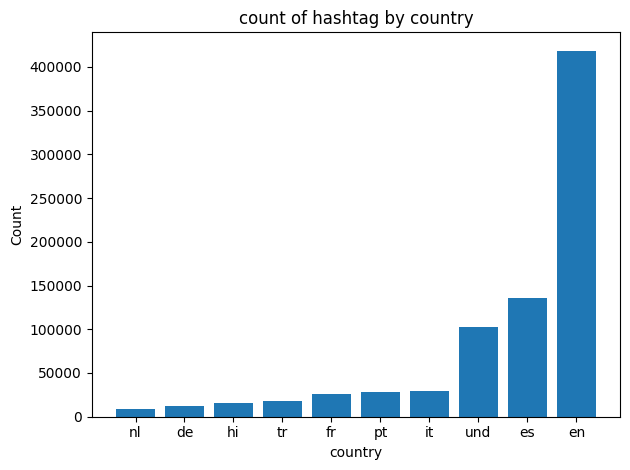
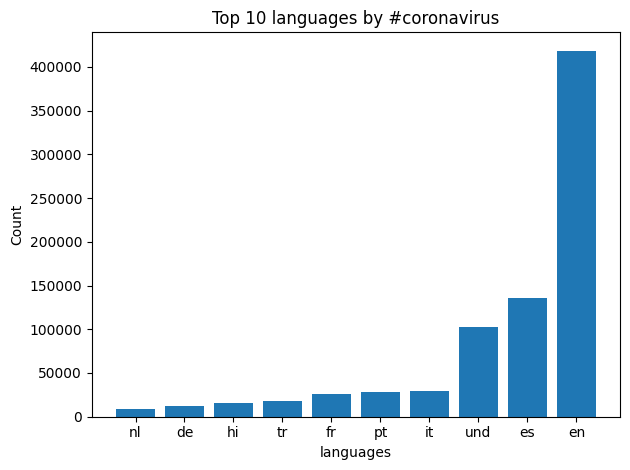
updated lang graphs

Changed region(s): [[0.3317, 0.0, 0.8143, 0.0596], [0.5127, 0.9532, 0.6333, 0.983]]

diff --git a/src/visualize.py b/src/visualize.py
@@ -27,17 +27,21 @@ if args.percent:
 # print the count values
 items = sorted(counts[args.key].items(), key=lambda item: (item[1],item[0]), reverse=True)
 
-for k,v in items:
-    print(k,':',v)
+top10 = items[-10:]
+keys = [k for k, v in top10]
+values = [v for k, v in top10]
+if "country" in args.input_path:
+    x="countries"
+else:
+    x="languages"
 
-plot_title = 'count of hashtag by country'
 png_title = args.input_path+args.key+'.png'
 
 top_10 = sorted(items[:10], key=lambda x: x[1])
 keys, values = zip(*top_10)
-plt.xlabel("country")
+plt.xlabel(x)
 plt.ylabel("Count")
-plt.title(plot_title)
+plt.title(f'Top 10 {x} by {args.key}')
 plt.bar(keys, values)
 plt.tight_layout()
 plt.savefig(png_title, bbox_inches="tight")
